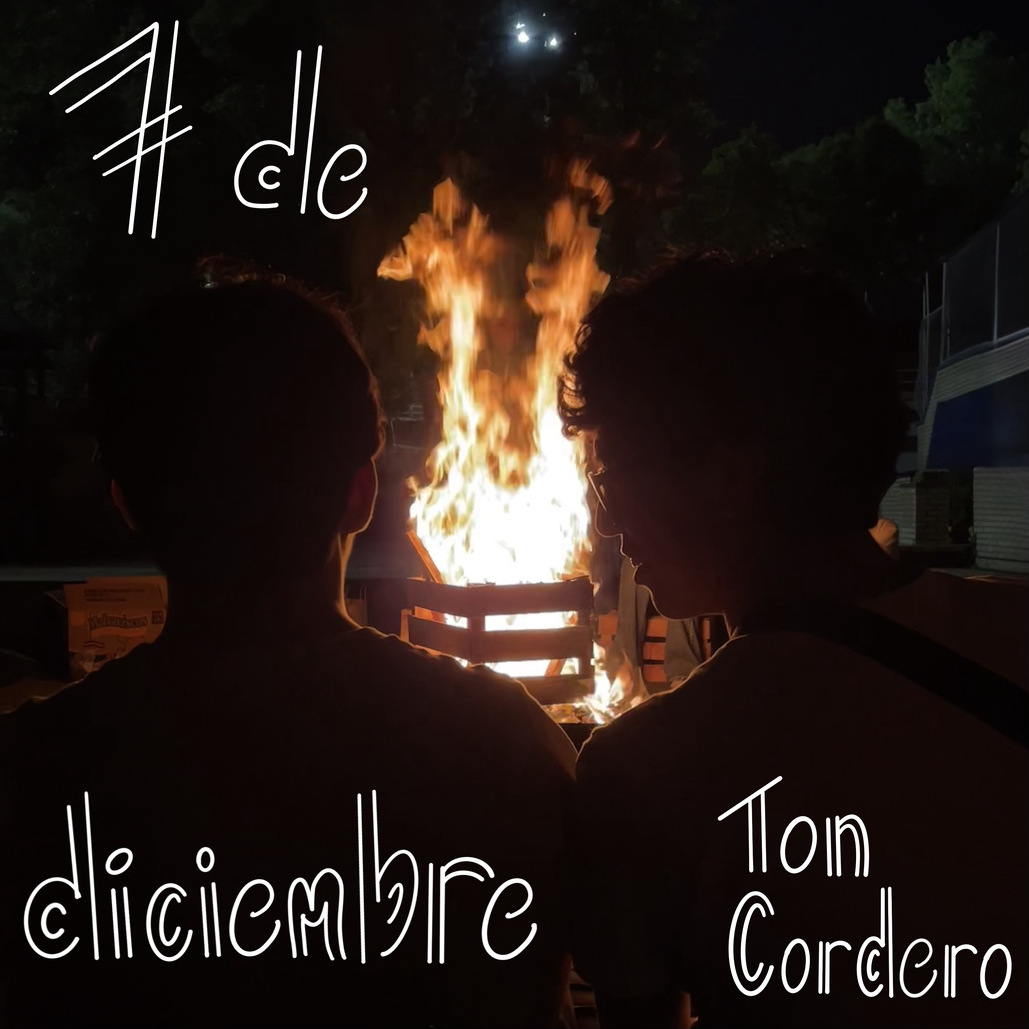
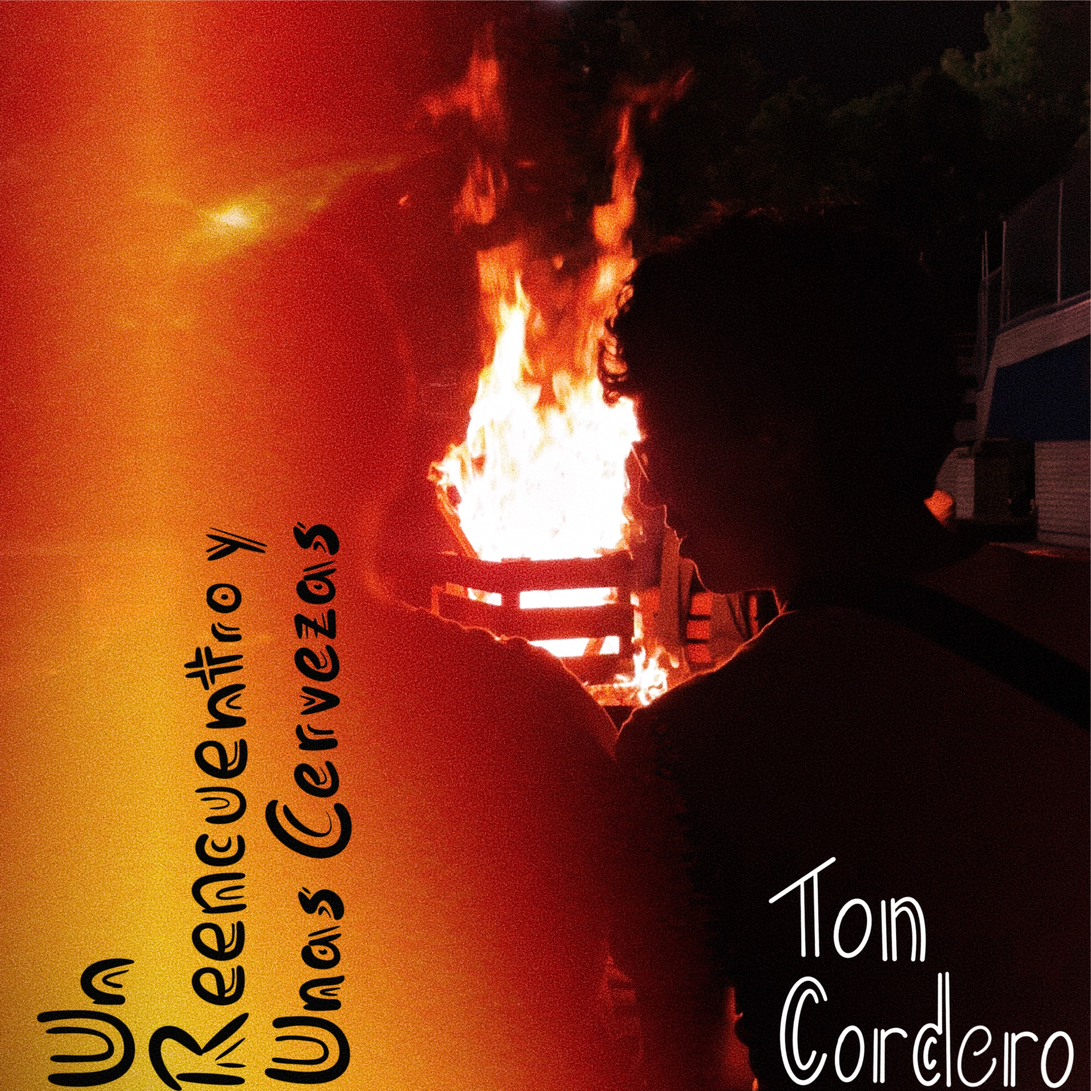
Added "Un Reencuentro y Unas Cervezas"

diff --git a/en.html b/en.html
@@ -141,6 +141,30 @@
                     <h3 class="section-subheading text-muted" style="margin-top: 0;">Click on each song to check out our credits for it.</h3>
                 </div>
                 <div class="row">
+                    
+                    <!-- Credits item 13-->
+                    <div class="col-lg-4 col-sm-6">
+                        <div class="credits-item">
+                            <a class="credits-link" data-bs-toggle="modal" href="#creditsModal13">
+                                <div class="credits-hover">
+                                    <div class="credits-hover-content"><i class="fas fa-plus fa-3x"></i></div>
+                                </div>
+                                <img class="img-fluid" src="assets/img/credits/13.jpg" alt="..." />
+                            </a>
+                            <div class="credits-caption">
+                                <div class="credits-caption-heading">Un Reencuentro y Unas Cervezas</div>
+                                <div class="credits-caption-subheading">Ton Cordero</div>
+                                <div class="credits-caption-subheading text-muted">Song</div>
+                                <div style="display: flex; flex-direction: row; align-items: center; justify-content: center; gap: 10px;">
+                                    <img class="img-fluid img-brand" src="assets/img/logos/ADM-Plural-Album-Large-en_MEX_PANLAT.png" alt="Apple Digital Masters" aria-label="Apple Digital Masters" style="margin-top: 10px;">
+                                </div>
+                                <div style="display: flex; flex-direction: row; align-items: center; justify-content: center; gap: 10px;">
+                                    <img class="img-fluid img-brand" src="assets/img/logos/dolby.svg" alt="Dolby Atmos" aria-label="Dolby Atmos" style="filter: brightness(0) invert(1); margin-top: 10px;">
+                                    <img class="img-fluid img-brand" src="assets/img/logos/eclipsa.png" alt="Eclipsa Audio" aria-label="Eclipsa Audio" style="filter: invert(1); margin-top: 10px;">
+                                </div>
+                            </div>
+                        </div>
+                    </div>
 
                     <!-- Credits item 12-->
                     <div class="col-lg-4 col-sm-6">
@@ -395,6 +419,44 @@
         </section>
         
         <!-- Credits Modals-->
+        
+        <!-- Credits item 13 modal popup-->
+        <div class="credits-modal modal fade" id="creditsModal13" tabindex="-1" role="dialog" aria-hidden="true">
+            <div class="modal-dialog">
+                <div class="modal-content">
+                    <div class="close-modal" data-bs-dismiss="modal">
+                        <img src="assets/img/close-icon.svg" alt="Close modal" style="filter: brightness(0) invert(1);" />
+                    </div>
+                    <div class="container">
+                        <div class="row justify-content-center">
+                            <div class="col-lg-8">
+                                <div class="modal-body">
+                                    <!-- Project details-->
+                                    <h2 class="text-uppercase">Un Reencuentro y Unas Cervezas</h2>
+                                    <p class="item-intro text-muted">Ton Cordero</p>
+                                    <img class="img-fluid d-block mx-auto" src="assets/img/credits/13.jpg" alt="..." />
+                                    <p><strong>Recording | Production | Mix | Mastering (Apple Digital Master) | Immersive Mix &amp; Mastering</strong></p>
+                                    <ul class="list-inline">
+                                        <li><strong>Type:</strong> Song</li>
+                                        <li><strong>Release date:</strong> October 11, 2025</li>
+                                    </ul>
+                                    <ul class="list-inline">
+                                        <div style="display: flex; flex-direction: column; align-items: center;">
+                                            <img class="img-fluid img-brand" src="assets/img/logos/ADM-Plural-Album-Large-en_MEX_PANLAT.png" alt="Apple Digital Masters" aria-label="Apple Digital Masters">
+                                            <img class="img-fluid img-brand" src="assets/img/logos/DLB_Atms_horz_rgb_wht.png" alt="Dolby Atmos" aria-label="Dolby Atmos" style="filter: brightness(0) invert(1); margin-top: 5px;">
+                                            <img class="img-fluid img-brand" src="assets/img/logos/Eclipsa_Audio.png" alt="Eclipsa Audio" aria-label="Eclipsa Audio" style="filter: invert(1); height: 35px; margin-top: 5px;">
+                                        </div>
+                                    </ul>
+                                    <button class="btn btn-primary btn-xl text-uppercase" data-bs-dismiss="modal" type="button">
+                                        <i class="fas fa-xmark me-1"></i> Close project
+                                    </button>
+                                </div>
+                            </div>
+                        </div>
+                    </div>
+                </div>
+            </div>
+        </div>
 
         <!-- Credits item 12 modal popup-->
         <div class="credits-modal modal fade" id="creditsModal12" tabindex="-1" role="dialog" aria-hidden="true">

diff --git a/es.html b/es.html
@@ -142,6 +142,30 @@
                 </div>
                 <div class="row">
                     
+                    <!-- Credits item 13-->
+                    <div class="col-lg-4 col-sm-6">
+                        <div class="credits-item">
+                            <a class="credits-link" data-bs-toggle="modal" href="#creditsModal13">
+                                <div class="credits-hover">
+                                    <div class="credits-hover-content"><i class="fas fa-plus fa-3x"></i></div>
+                                </div>
+                                <img class="img-fluid" src="assets/img/credits/13.jpg" alt="..." />
+                            </a>
+                            <div class="credits-caption">
+                                <div class="credits-caption-heading">Un Reencuentro y Unas Cervezas</div>
+                                <div class="credits-caption-subheading">Ton Cordero</div>
+                                <div class="credits-caption-subheading text-muted">Canción</div>
+                                <div style="display: flex; flex-direction: row; align-items: center; justify-content: center; gap: 10px;">
+                                    <img class="img-fluid img-brand" src="assets/img/logos/ADM-Plural-Album-Large-en_MEX_PANLAT.png" alt="Apple Digital Masters" aria-label="Apple Digital Masters" style="margin-top: 10px;">
+                                </div>
+                                <div style="display: flex; flex-direction: row; align-items: center; justify-content: center; gap: 10px;">
+                                    <img class="img-fluid img-brand" src="assets/img/logos/dolby.svg" alt="Dolby Atmos" aria-label="Dolby Atmos" style="filter: brightness(0) invert(1); margin-top: 10px;">
+                                    <img class="img-fluid img-brand" src="assets/img/logos/eclipsa.png" alt="Eclipsa Audio" aria-label="Eclipsa Audio" style="filter: invert(1); margin-top: 10px;">
+                                </div>
+                            </div>
+                        </div>
+                    </div>
+                    
                     <!-- Credits item 12-->
                     <div class="col-lg-4 col-sm-6">
                         <div class="credits-item">
@@ -395,6 +419,44 @@
         </section>
         
         <!-- Credits Modals-->
+        
+        <!-- Credits item 13 modal popup-->
+        <div class="credits-modal modal fade" id="creditsModal13" tabindex="-1" role="dialog" aria-hidden="true">
+            <div class="modal-dialog">
+                <div class="modal-content">
+                    <div class="close-modal" data-bs-dismiss="modal">
+                        <img src="assets/img/close-icon.svg" alt="Close modal" style="filter: brightness(0) invert(1);" />
+                    </div>
+                    <div class="container">
+                        <div class="row justify-content-center">
+                            <div class="col-lg-8">
+                                <div class="modal-body">
+                                    <!-- Project details-->
+                                    <h2 class="text-uppercase">Un Reencuentro y Unas Cervezas</h2>
+                                    <p class="item-intro text-muted">Ton Cordero</p>
+                                    <img class="img-fluid d-block mx-auto" src="assets/img/credits/13.jpg" alt="..." />
+                                    <p><strong>Grabación | Producción | Mezcla | Mastering (Apple Digital Master) | Mezcla y Mastering Inmersivos</strong></p>
+                                    <ul class="list-inline">
+                                        <li><strong>Tipo:</strong> Canción</li>
+                                        <li><strong>Fecha de lanzamiento:</strong> 11 de octubre del 2025</li>
+                                    </ul>
+                                    <ul class="list-inline">
+                                        <div style="display: flex; flex-direction: column; align-items: center;">
+                                            <img class="img-fluid img-brand" src="assets/img/logos/ADM-Plural-Album-Large-en_MEX_PANLAT.png" alt="Apple Digital Masters" aria-label="Apple Digital Masters">
+                                            <img class="img-fluid img-brand" src="assets/img/logos/DLB_Atms_horz_rgb_wht.png" alt="Dolby Atmos" aria-label="Dolby Atmos" style="filter: brightness(0) invert(1); margin-top: 5px;">
+                                            <img class="img-fluid img-brand" src="assets/img/logos/Eclipsa_Audio.png" alt="Eclipsa Audio" aria-label="Eclipsa Audio" style="filter: invert(1); height: 35px; margin-top: 5px;">
+                                        </div>
+                                    </ul>
+                                    <button class="btn btn-primary btn-xl text-uppercase" data-bs-dismiss="modal" type="button">
+                                        <i class="fas fa-xmark me-1"></i> Cerrar proyecto
+                                    </button>
+                                </div>
+                            </div>
+                        </div>
+                    </div>
+                </div>
+            </div>
+        </div>
         
         <!-- Credits item 12 modal popup-->
         <div class="credits-modal modal fade" id="creditsModal12" tabindex="-1" role="dialog" aria-hidden="true">

diff --git a/beta_webpage.html b/beta_webpage.html
@@ -130,7 +130,7 @@
                             <i class="fa-solid fa-headphones fa-stack-1x fa-inverse"></i>
                         </span>
                         <h4 class="my-3">Dolby Atmos Immersive Mixing & Mastering</h4>
-                        <p class="text-muted">Take your song to the next dimension with a Dolby Atmos (available on Apple Music, Amazon Music and Tidal) & Eclipsa Audio (available on YouTube) Immersive Audio Mix & Master, with audio that surrounds you from all sides and above.</p>
+                        <p class="text-muted">Take your song to the next dimension with a Dolby Atmos (available on Apple Music, Amazon Music and Tidal), Eclipsa Audio (available on YouTube), Apple Spatial Audio Format (available on all Apple devices excepting Apple Watch)and Sony 360 Reality Audio (available on Amazon Music) Immersive Audio Mix & Master, with audio that surrounds you from all sides and above.</p>
                     </div>
                 </div>
             </div>
@@ -165,7 +165,8 @@
                                 <div style="display: flex; flex-direction: row; align-items: center; justify-content: center; gap: 10px;">
                                     <img class="img-fluid img-brand" src="assets/img/logos/dolby.svg" alt="Dolby Atmos" aria-label="Dolby Atmos" style="filter: brightness(0) invert(1); margin-top: 10px;">
                                     <img class="img-fluid img-brand" src="assets/img/logos/eclipsa.png" alt="Eclipsa Audio" aria-label="Eclipsa Audio" style="filter: invert(1); margin-top: 10px;">
-                                </div> 
+                                    <img class="img-fluid img-brand" src="assets/img/logos/apple_spatial_audio.png" alt="Apple Spatial Audio" aria-label="Spatial Audio" style="margin-top: 10px;">
+                                </div>
                             </div>
                         </div>
                     </div>
@@ -241,6 +242,7 @@
                             </div>
                         </div>
                     </div>
+                    
                     <!-- Credits item 12-->
                     <div class="col-lg-4 col-sm-6">
                         <div class="credits-item">
